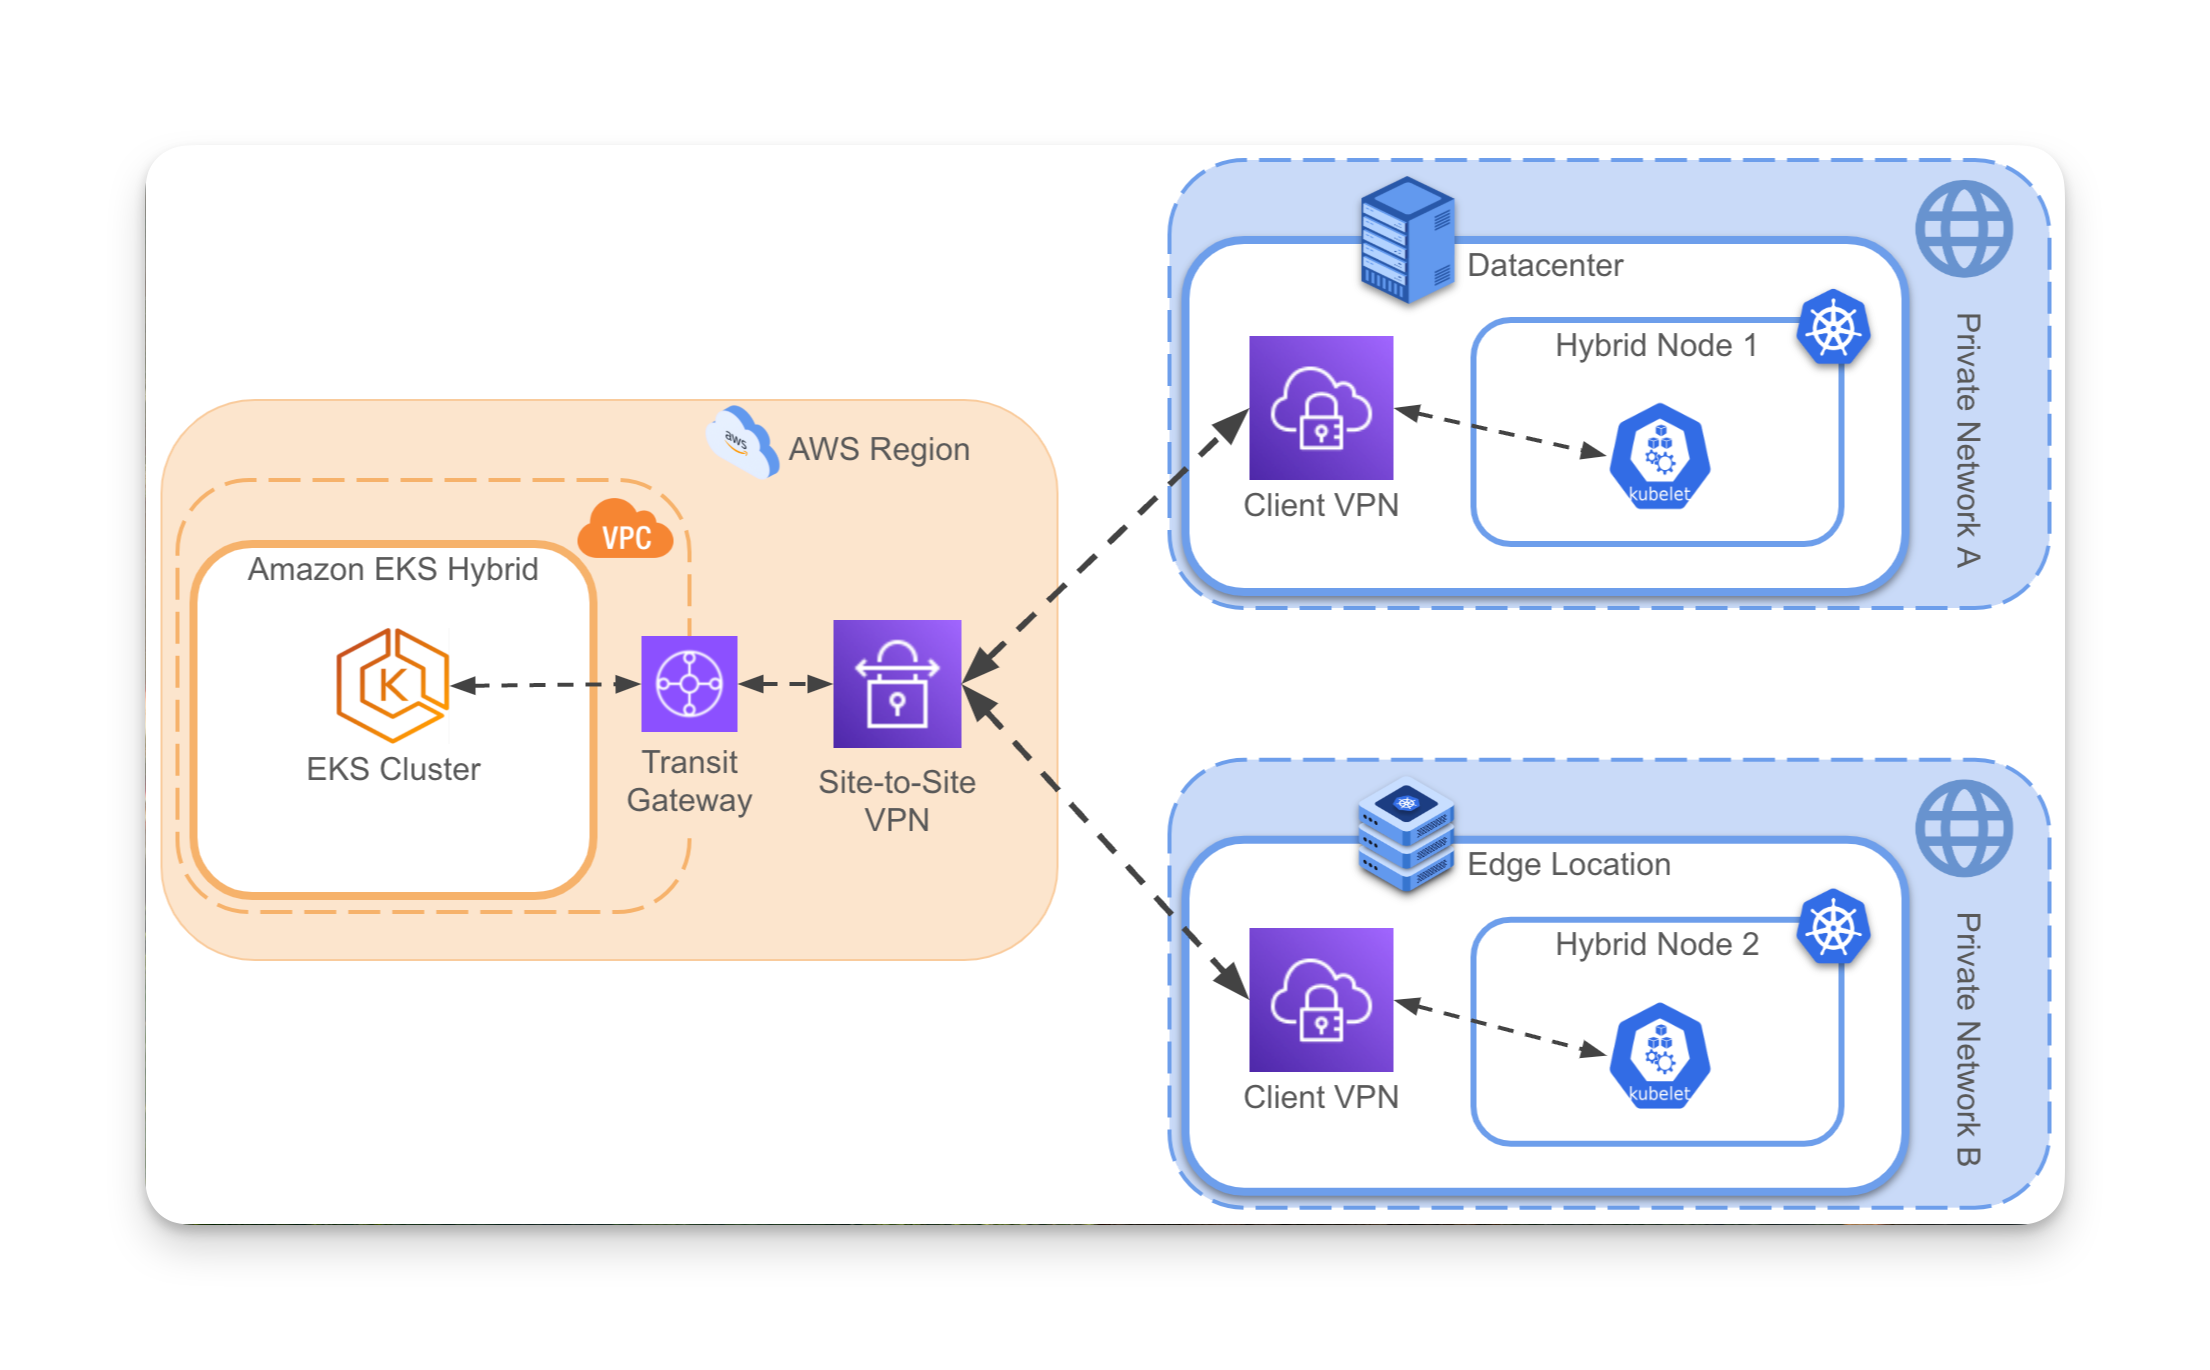
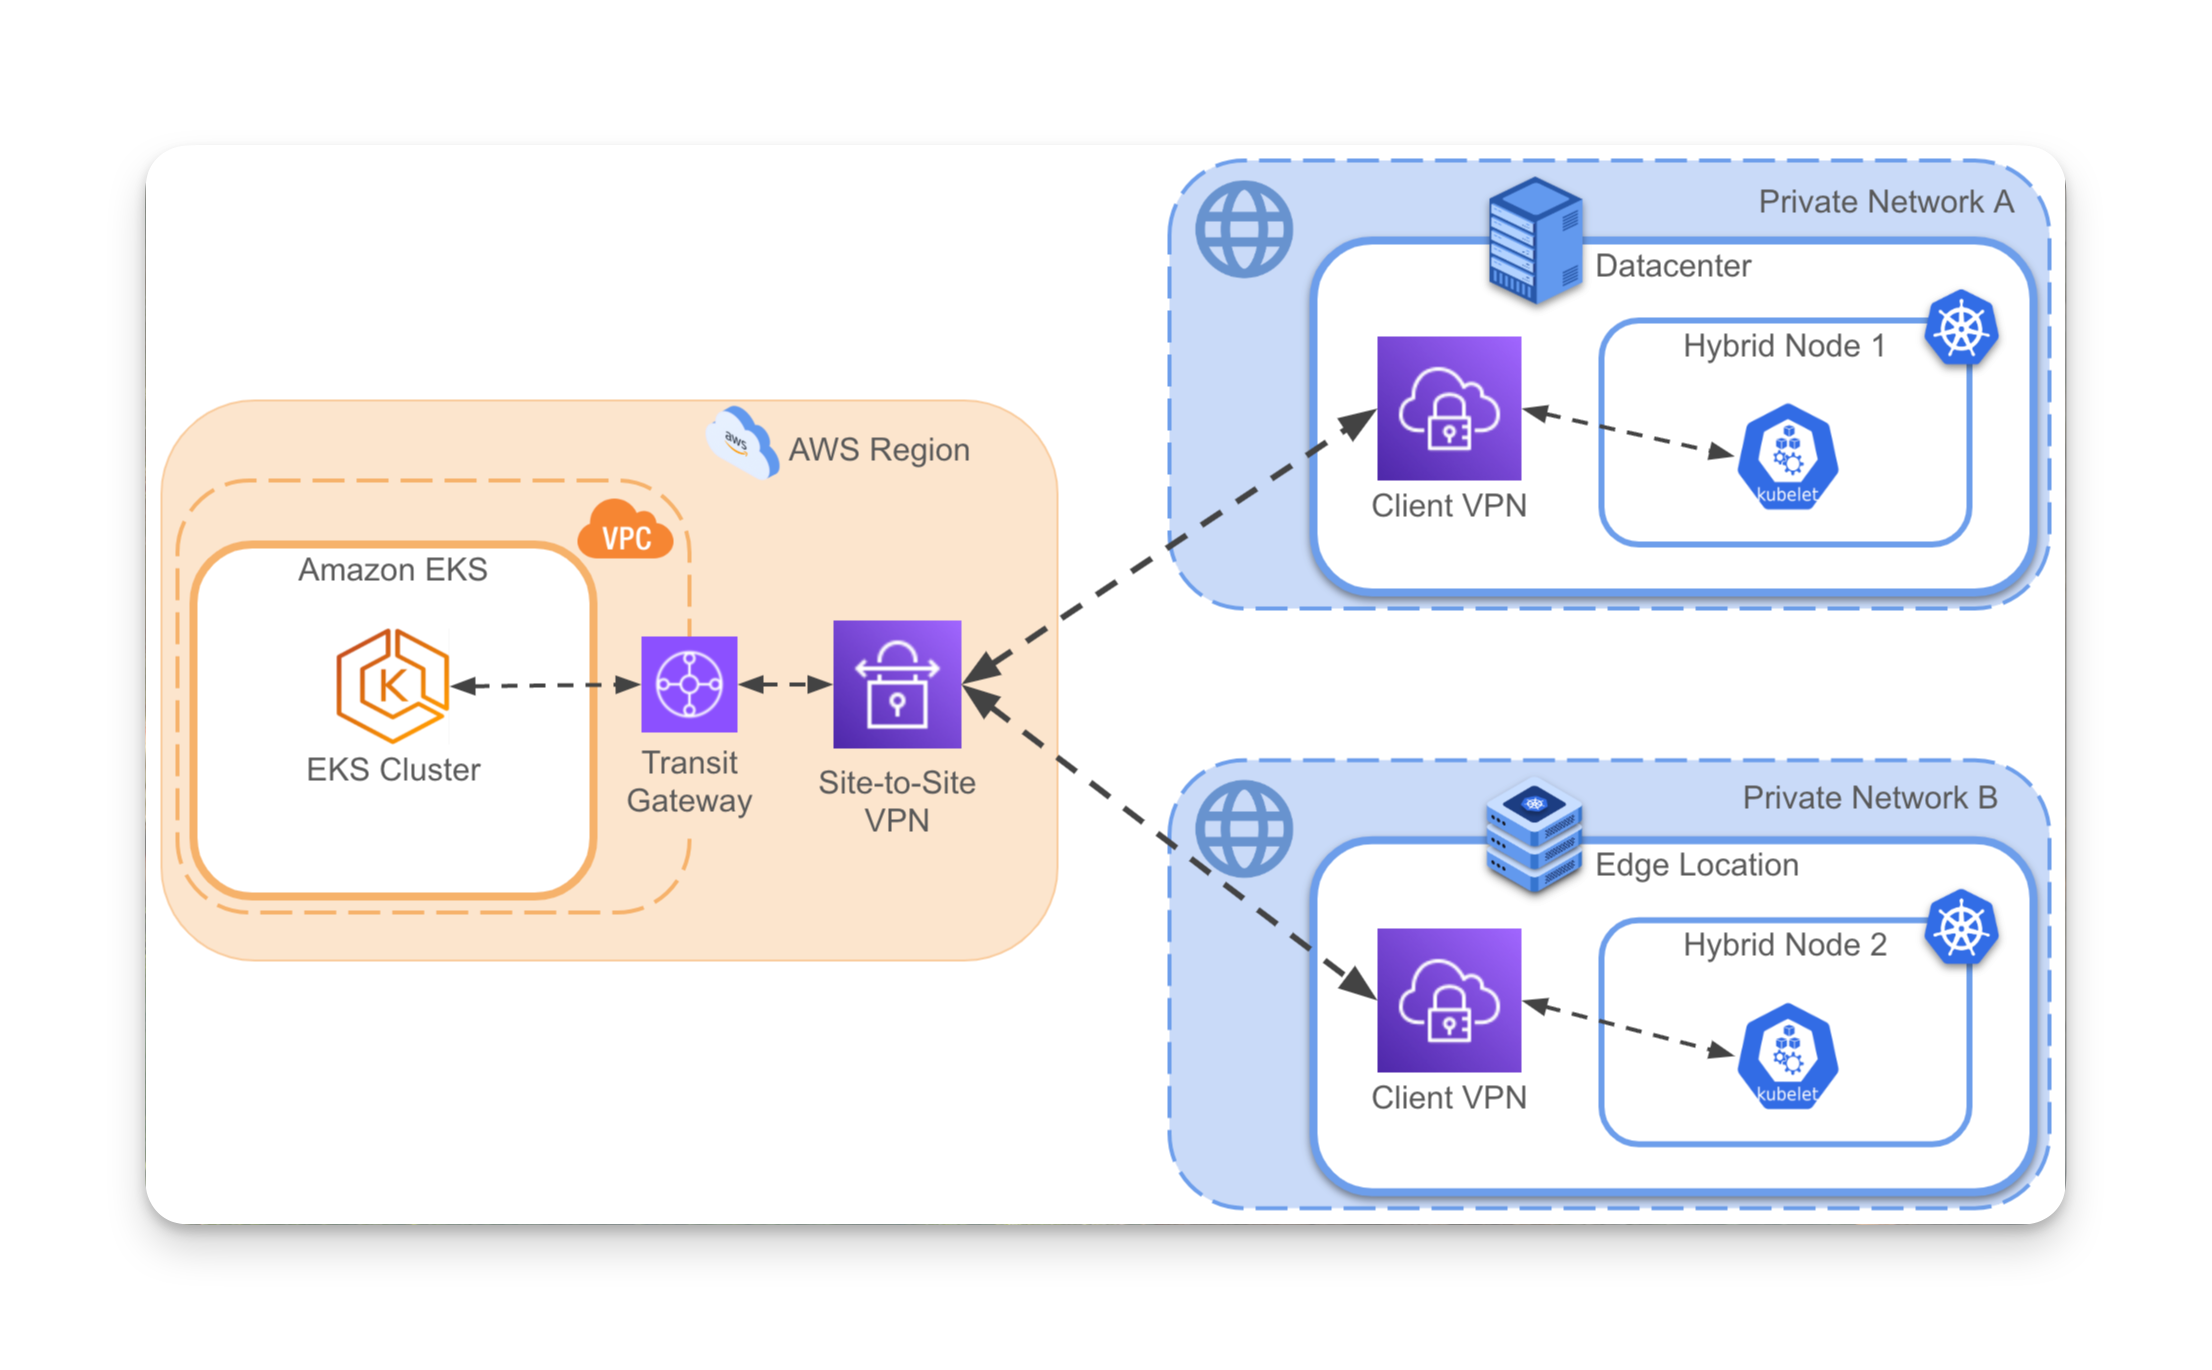
docs: diagram change and remove pem examples

diff --git a/docs/docs-content/clusters/public-cloud/aws/eks-hybrid-nodes/import-eks-cluster-enable-hybrid-mode.md b/docs/docs-content/clusters/public-cloud/aws/eks-hybrid-nodes/import-eks-cluster-enable-hybrid-mode.md
@@ -158,8 +158,8 @@ The following limitations apply after importing an existing Amazon EKS cluster.
     | Profile ARN | The ARN of the IAM Roles Anywhere profile that defines which roles can be assumed. | `arn:aws:rolesanywhere:us-east-2:123456789012:profile/abcd1234-5678-90ef-ghij-klmnopqrstuv` |
     | Role ARN | The ARN of the IAM role specified in the IAM Roles Anywhere profile that defines the permissions and policies for roles that can be assumed by hybrid nodes. | `arn:aws:iam::123456789012:role/IRAHybridNodesRole` |
     | Trust Anchor ARN | The ARN of the IAM Roles Anywhere trust anchor that contains your certificate authority configuration. | `arn:aws:rolesanywhere:us-east-2:123456789012:trust-anchor/abcd1234-5678-90ef-ghij-klmnopqrstuv` |
-    | Root CA Certificate | The PEM-encoded certificate of your Certificate Authority (CA) that serves as the trust anchor. This certificate is used by IAM Roles Anywhere to validate the authenticity of the client certificates presented by your hybrid nodes. | `-----BEGIN CERTIFICATE-----\nMIIEBjCCAu6gAwIBAgIJAMc0ZzaSUK51MA0...\n-----END CERTIFICATE-----` |
-    | Root CA Private Key | The private key corresponding to your CA's certificate, used to sign client certificates. | `-----BEGIN RSA PRIVATE KEY-----\nMIIEpAIBAAKCAQEA4RFvKSZ+XVmRE3URXU...\n-----END RSA PRIVATE KEY-----` |
+    | Root CA Certificate | The PEM-encoded certificate of your Certificate Authority (CA) that serves as the trust anchor. This certificate is used by IAM Roles Anywhere to validate the authenticity of the client certificates presented by your hybrid nodes. | |
+    | Root CA Private Key | The private key corresponding to your CA's certificate, used to sign client certificates. | |
 
 13. Click **Save Changes** when complete.
 
